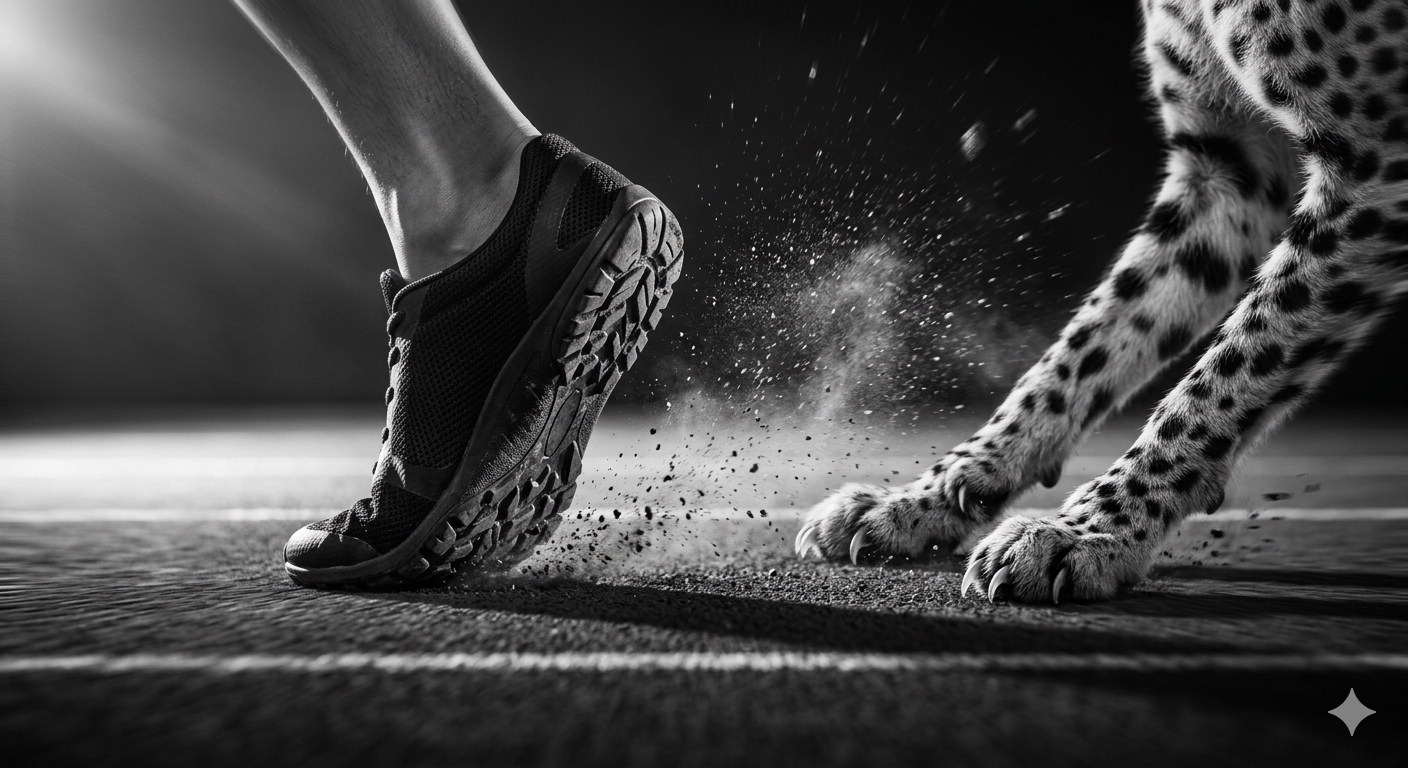
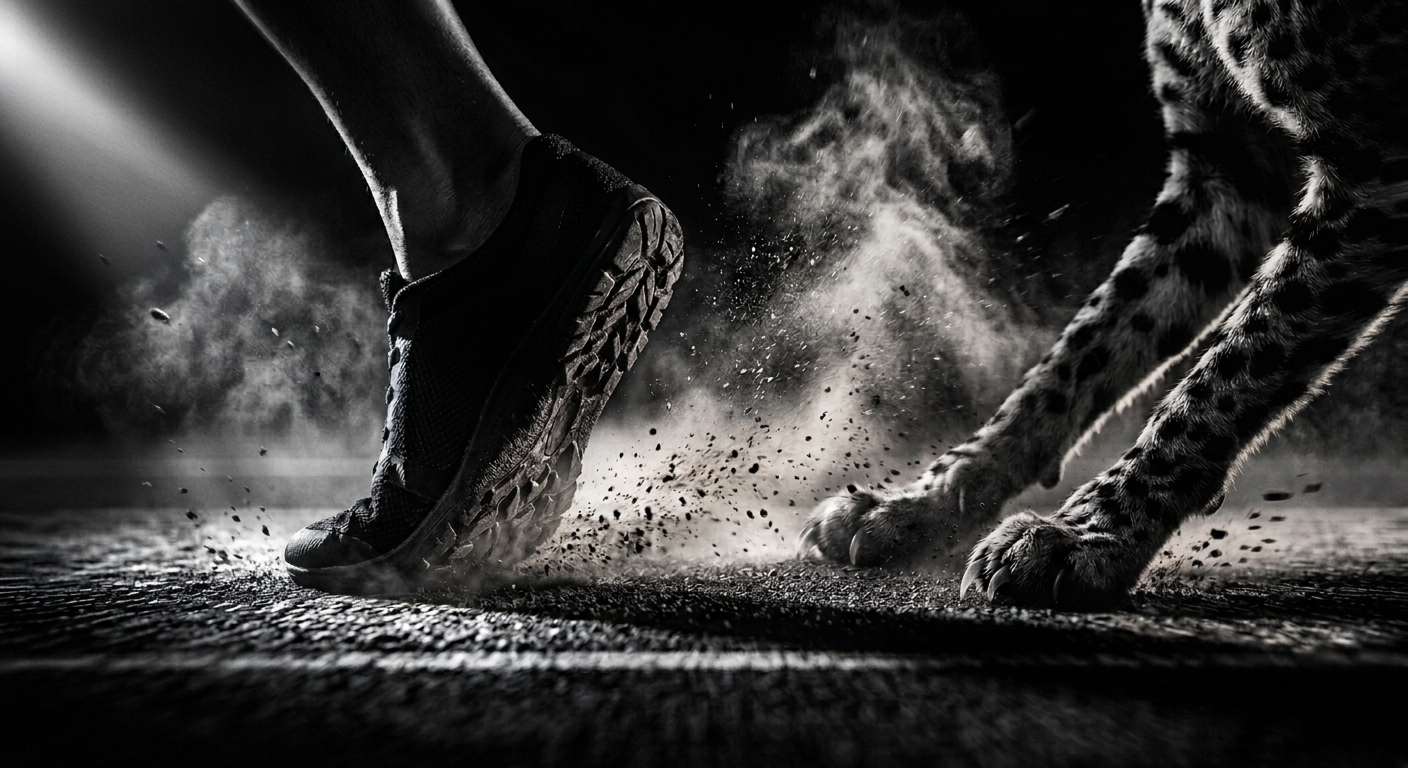
feat: imagens reais no tríptico e backdrop atualizados

diff --git a/app/page.tsx b/app/page.tsx
@@ -288,7 +288,7 @@ export default function Home() {
         <section className="triptych wrap section--tight" aria-label="Trabalho">
           <div className="triptych__grid">
             <div className="figure figure--tall reveal">
-              <img src={`${IMG}/lumma-trip-1/900/1100`} alt="Amostra de trabalho da Lumma" loading="lazy" />
+              <img src="/trip-interface.png" alt="Amostra de trabalho da Lumma" loading="lazy" />
               <span className="figure__tag">Interface</span>
             </div>
             <div className="figure figure--tall reveal">
@@ -296,7 +296,7 @@ export default function Home() {
               <span className="figure__tag">Produto</span>
             </div>
             <div className="figure figure--tall reveal">
-              <img src="/trip-identidade.jpg" alt="Amostra de trabalho da Lumma" loading="lazy" />
+              <img src="/trip-identidade.png" alt="Amostra de trabalho da Lumma" loading="lazy" />
               <span className="figure__tag">Identidade</span>
             </div>
           </div>
